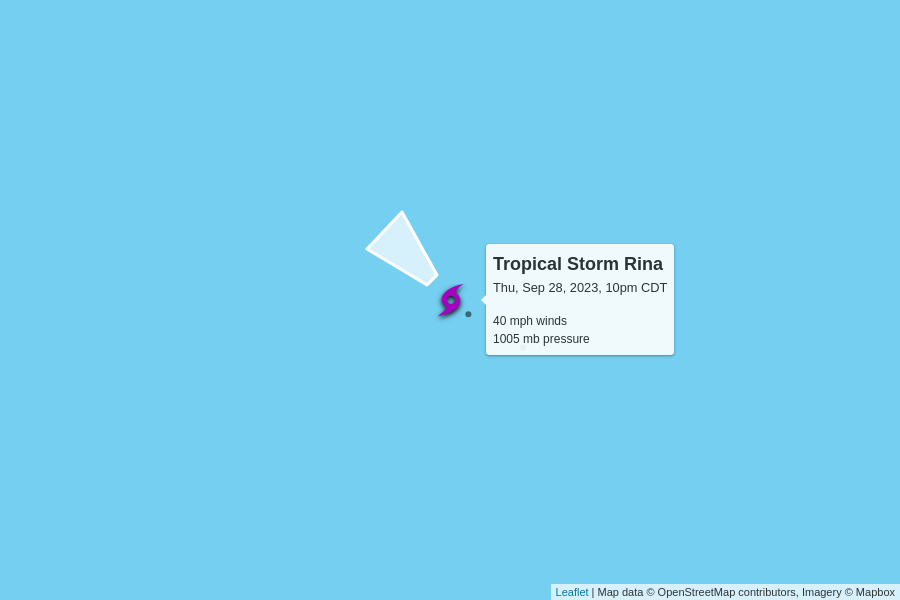
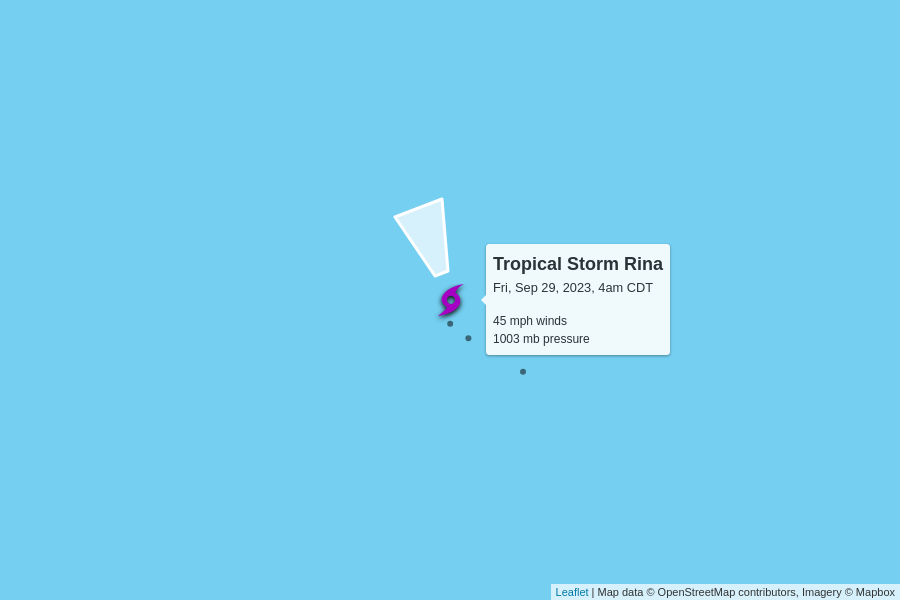
automatic update

Changed region(s): [[0.56, 0.42, 0.7778, 0.57], [0.4044, 0.33, 0.4978, 0.48]]

diff --git a/docs/index.html b/docs/index.html
@@ -104,7 +104,7 @@
         <td colspan="6" class="storm category-0" >
           <h2>
             Tropical Storm Philippe
-            <p class="updated">last updated <span data-time>2023-09-29T03:00:00.000Z</span></p>
+            <p class="updated">last updated <span data-time>2023-09-29T09:00:00.000Z</span></p>
           </h2>
         </td>
       </tr>
@@ -120,11 +120,11 @@
       <tr>
         <td class="spacer"></td>
         <td>45 mph<br>0 mph since last update</td>
-        <td>1004 mb<br>+1 mb since last update</td>
+        <td>1003 mb<br>-1 mb since last update</td>
         <td>
-          5 mph to the west-southwest
+          2 mph to the southwest
           <br/>
-          <span style="display: inline-block; font-size: 1.5em; transform: rotate(240deg);">↑</span>
+          <span style="display: inline-block; font-size: 1.5em; transform: rotate(235deg);">↑</span>
         </td>
         <td><a href="https://raw.githubusercontent.com/mgwalker/atlantic-hurricanes/main/data/csv/AL172023.csv">AL172023.csv</a></td>
         <td><a href="https://www.nhc.noaa.gov/archive/2023/PHILIPPE.shtml?">NHC advisories</a></td>
@@ -148,7 +148,7 @@
         <td colspan="6" class="storm category-0" >
           <h2>
             Tropical Storm Rina
-            <p class="updated">last updated <span data-time>2023-09-29T03:00:00.000Z</span></p>
+            <p class="updated">last updated <span data-time>2023-09-29T09:00:00.000Z</span></p>
           </h2>
         </td>
       </tr>
@@ -163,12 +163,12 @@
       </tr>
       <tr>
         <td class="spacer"></td>
-        <td>40 mph<br>0 mph since last update</td>
-        <td>1005 mb<br>+1 mb since last update</td>
+        <td>45 mph<br>+5 mph since last update</td>
+        <td>1003 mb<br>-2 mb since last update</td>
         <td>
-          7 mph to the northwest
+          5 mph to the north-northwest
           <br/>
-          <span style="display: inline-block; font-size: 1.5em; transform: rotate(315deg);">↑</span>
+          <span style="display: inline-block; font-size: 1.5em; transform: rotate(340deg);">↑</span>
         </td>
         <td><a href="https://raw.githubusercontent.com/mgwalker/atlantic-hurricanes/main/data/csv/AL182023.csv">AL182023.csv</a></td>
         <td><a href="https://www.nhc.noaa.gov/archive/2023/RINA.shtml?">NHC advisories</a></td>
